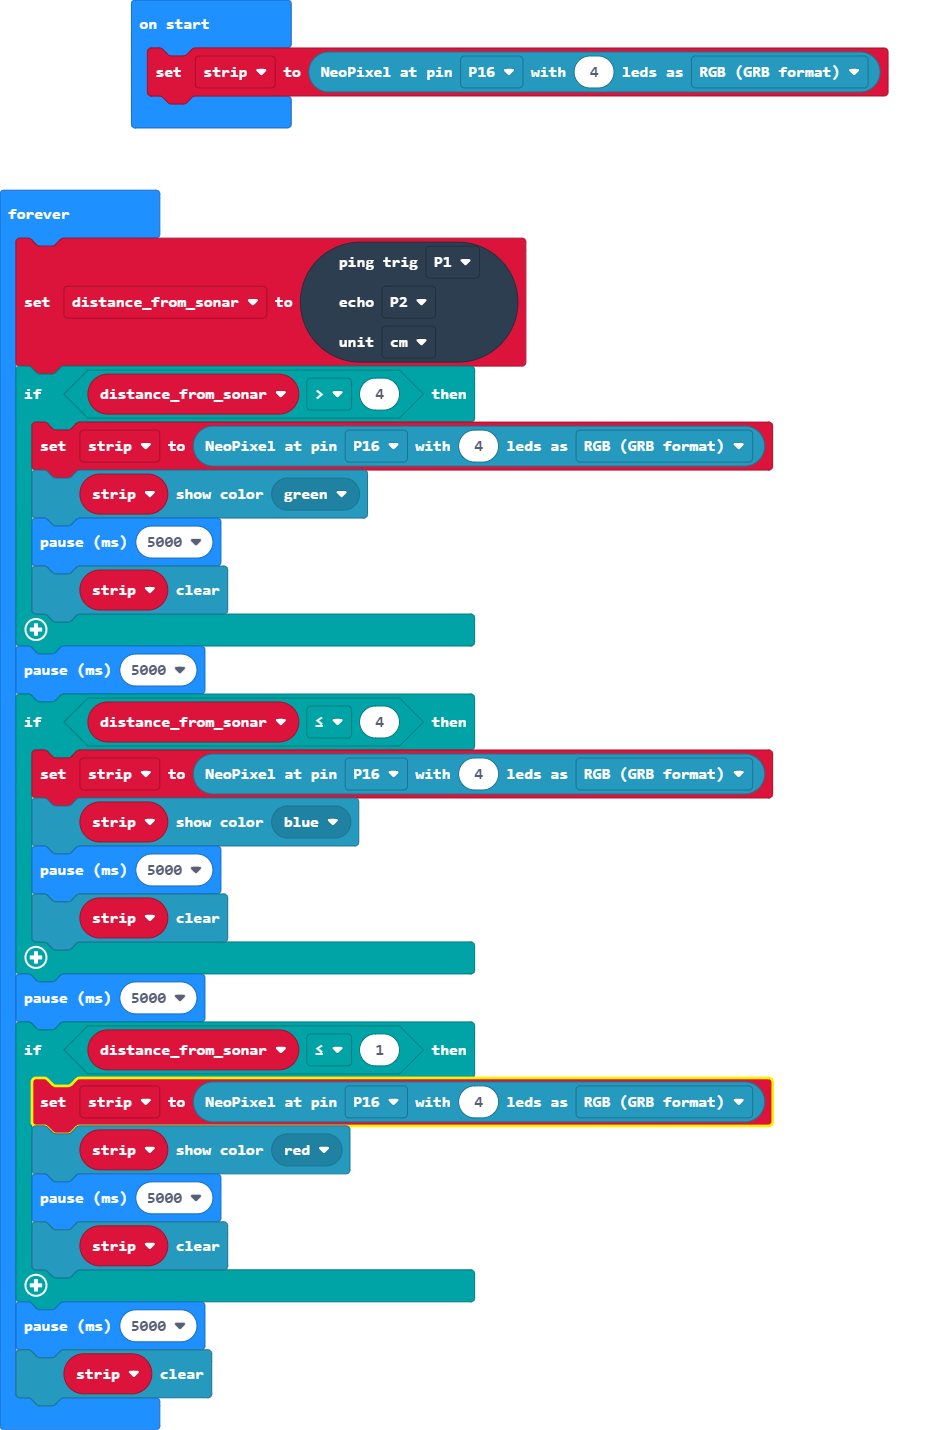
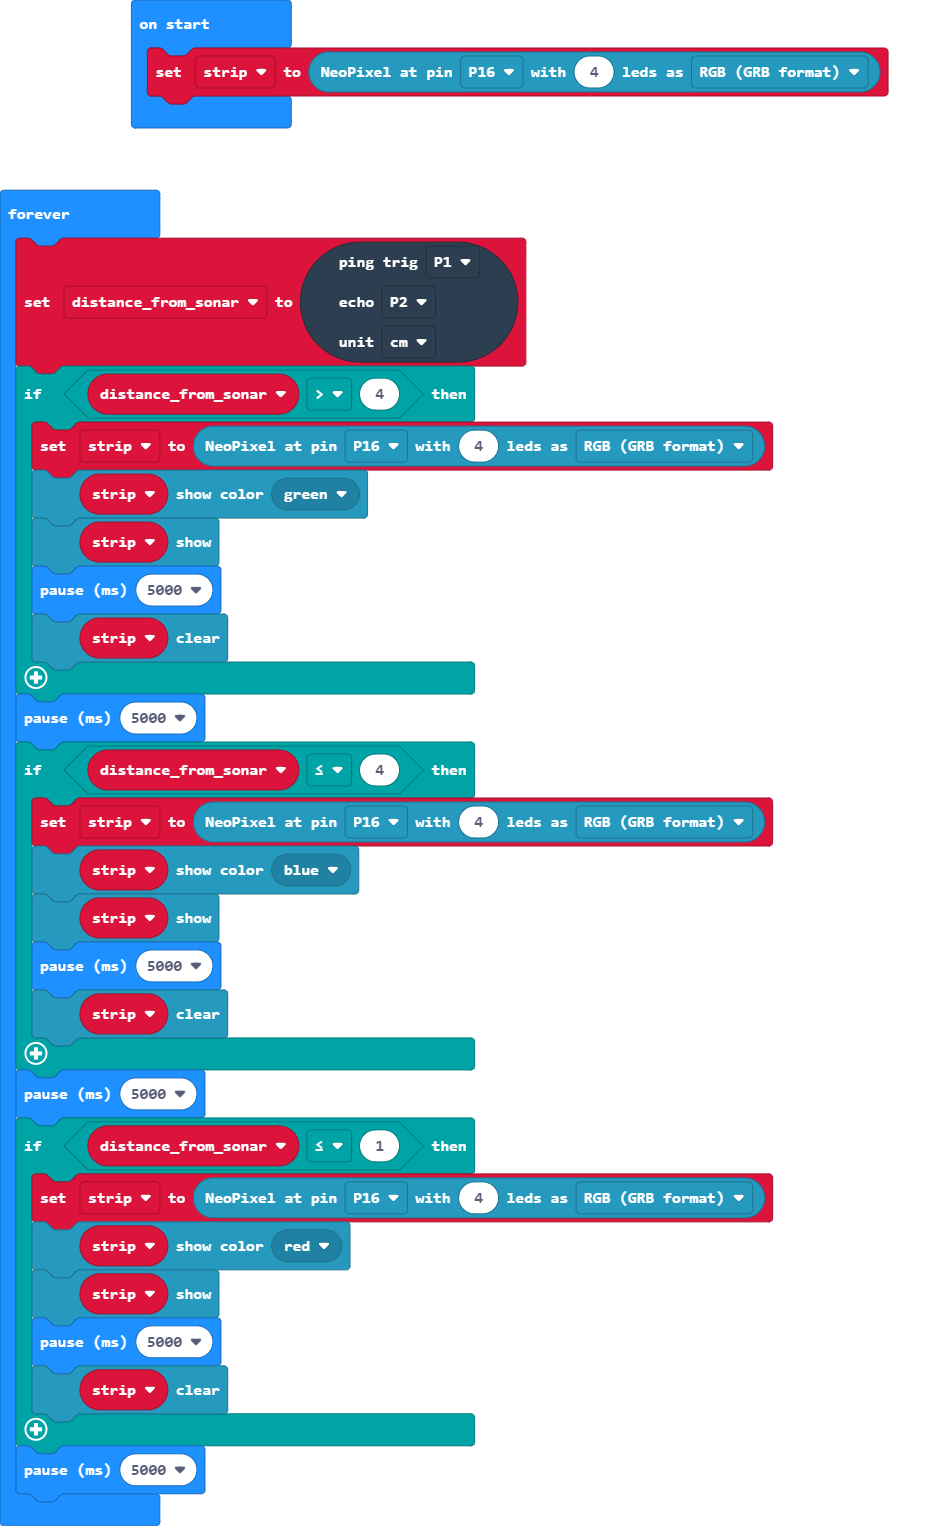
Update main.blocks, main.ts

Changed region(s): [[0.0, 0.1231, 0.833, 0.9846], [0.1234, 0.0, 0.9564, 0.0923]]

diff --git a/main.ts b/main.ts
@@ -9,6 +9,7 @@ basic.forever(function () {
     if (distance_from_sonar > 4) {
         strip2 = neopixel.create(DigitalPin.P16, 4, NeoPixelMode.RGB)
         strip2.showColor(neopixel.colors(NeoPixelColors.Green))
+        strip2.show()
         basic.pause(5000)
         strip2.clear()
     }
@@ -16,6 +17,7 @@ basic.forever(function () {
     if (distance_from_sonar <= 4) {
         strip2 = neopixel.create(DigitalPin.P16, 4, NeoPixelMode.RGB)
         strip2.showColor(neopixel.colors(NeoPixelColors.Blue))
+        strip2.show()
         basic.pause(5000)
         strip2.clear()
     }
@@ -23,9 +25,9 @@ basic.forever(function () {
     if (distance_from_sonar <= 1) {
         strip2 = neopixel.create(DigitalPin.P16, 4, NeoPixelMode.RGB)
         strip2.showColor(neopixel.colors(NeoPixelColors.Red))
+        strip2.show()
         basic.pause(5000)
         strip2.clear()
     }
     basic.pause(5000)
-    strip2.clear()
 })
